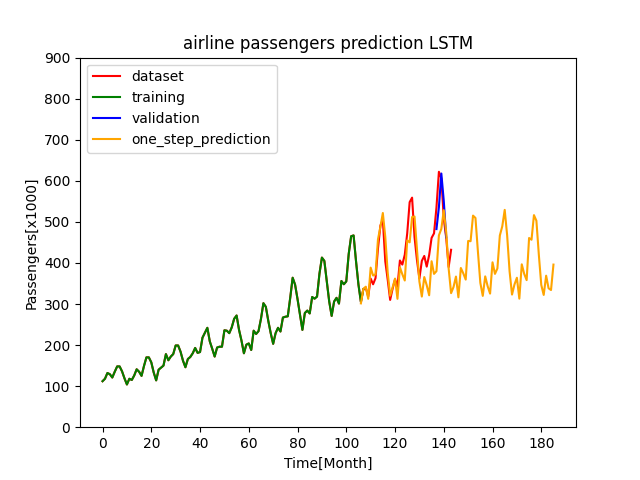
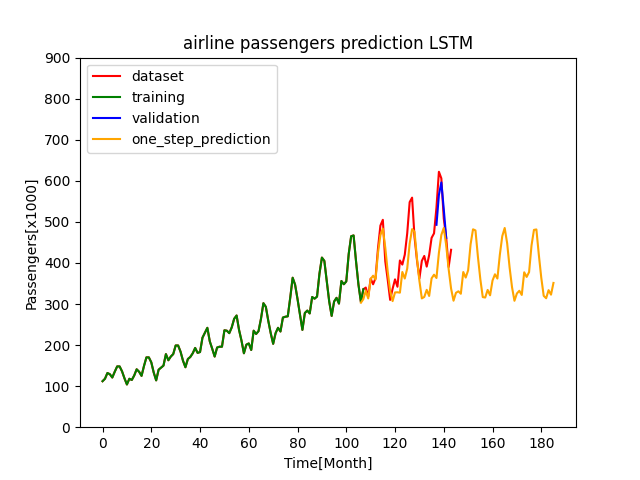
update AirlinePassengersDataSet to numpy output

Changed region(s): [[0.5625, 0.375, 0.875, 0.625]]

diff --git a/TimeSeriesPrediction/2_UnivariatTimeSeriesForecast/AirlinePassengers/Keras/LSTM/airline_passengers_keras_lstm.py b/TimeSeriesPrediction/2_UnivariatTimeSeriesForecast/AirlinePassengers/Keras/LSTM/airline_passengers_keras_lstm.py
@@ -8,10 +8,10 @@ from sklearn.preprocessing import MinMaxScaler
 def main():
     airline_passengers = AirlinePassengersDataSet()
     train_scaler = MinMaxScaler(feature_range=(0, 1))
-    scaled_train = train_scaler.fit_transform(airline_passengers.get_train_data())
+    scaled_train = train_scaler.fit_transform(airline_passengers.get_train_data().reshape(-1, 1))
 
     test_scaler = MinMaxScaler(feature_range=(0, 1))
-    scaled_test = test_scaler.fit_transform(airline_passengers.get_test_data())
+    scaled_test = test_scaler.fit_transform(airline_passengers.get_test_data().reshape(-1, 1))
 
     lookback: int = 30
     train_timeseries, train_targets = TimeSeriesGenerator(scaled_train, lookback).create_timeseries()
@@ -56,11 +56,11 @@ class AirlinePassengersDataSet:
 
     def get_train_data(self):
         data = self.data.loc[0:self.threshold, "Passengers"].reset_index(drop=True)
-        return pd.DataFrame(data)
+        return data.to_numpy()
 
     def get_test_data(self):
         data = self.data.loc[self.threshold:142, "Passengers"].reset_index(drop=True)
-        return pd.DataFrame(data)
+        return data.to_numpy()
 
 
 class TimeSeriesGenerator:

diff --git a/TimeSeriesPrediction/2_UnivariatTimeSeriesForecast/AirlinePassengers/Keras/FF/airline_passengers_keras_ff.py b/TimeSeriesPrediction/2_UnivariatTimeSeriesForecast/AirlinePassengers/Keras/FF/airline_passengers_keras_ff.py
@@ -52,11 +52,11 @@ class AirlinePassengersDataSet:
 
     def get_train_data(self):
         data = self.data.loc[0:self.threshold, "Passengers"].reset_index(drop=True)
-        return pd.Series(data)
+        return data.to_numpy()
 
     def get_test_data(self):
         data = self.data.loc[self.threshold:142, "Passengers"].reset_index(drop=True)
-        return pd.Series(data)
+        return data.to_numpy()
 
 
 class TimeSeriesGenerator:
@@ -72,10 +72,10 @@ class TimeSeriesGenerator:
         return np.array(inputs), np.array(targets)
 
     def __get_targets(self, element):
-        return self.data.loc[element]
+        return self.data[element]
 
     def __get_timeseries(self, element):
-        return self.data.loc[element-self.lookback: element-1].to_list()
+        return self.data[element-self.lookback: element-1]
 
 
 def create_FF_model(inputs, targets):
